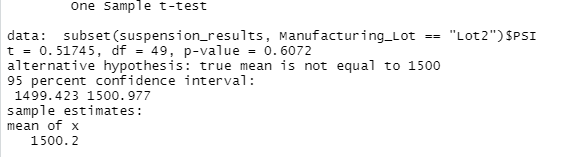
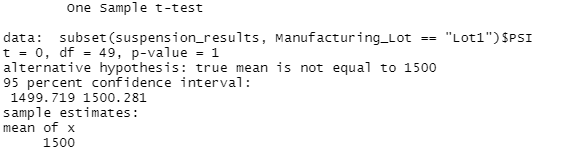
update README

Changed region(s): [[0.0, 0.1892, 0.968, 1.0], [0.0907, 0.0, 0.363, 0.1081]]

diff --git a/README.md b/README.md
@@ -45,16 +45,29 @@ When reviewing the total summary dataframe, all three manufacturing lots have a 
 ## T-Tests on Suspension Coils
 
 -Screenshot of the T Test on all lots:
+
 ![](Resources/Deliverable3_All_Lots.PNG)
 
 -Screenshot of the T Test on Lot 1:
+
 ![](Resources/Deliverable3_Lot1.PNG)
 
 -Screenshot of the T Test on Lot 2:
+
 ![](Resources/Deliverable3_Lot2.PNG)
 
 -Screenshot of the T Test on Lot 3:
+
 ![](Resources/Deliverable3_Lot3.PNG)
 
+
+### Summary of T-test results across all manufacturing and for each lot
+
+- The p-value of all manufacturing lots was 0.06028. This p-value is greater than the significance level of 0.05, which means all manufacturing lots are statistically similar.
+- For Lot 1, the p-value is 1, which is greater than the significance level of 0.05. As a result, the two means are statistically similar.
+- For Lot 2, the p-value is 0.6072, which is greater than the significance level of 0.05. As a result, the two means are statistically similar.
+- For Lot 3, the p-value is 0.04168, which is lower than the significance level of 0.05. As a result, the two means are not statistically similar.
+
+## Study Design: MechaCar vs Competition
 
 
